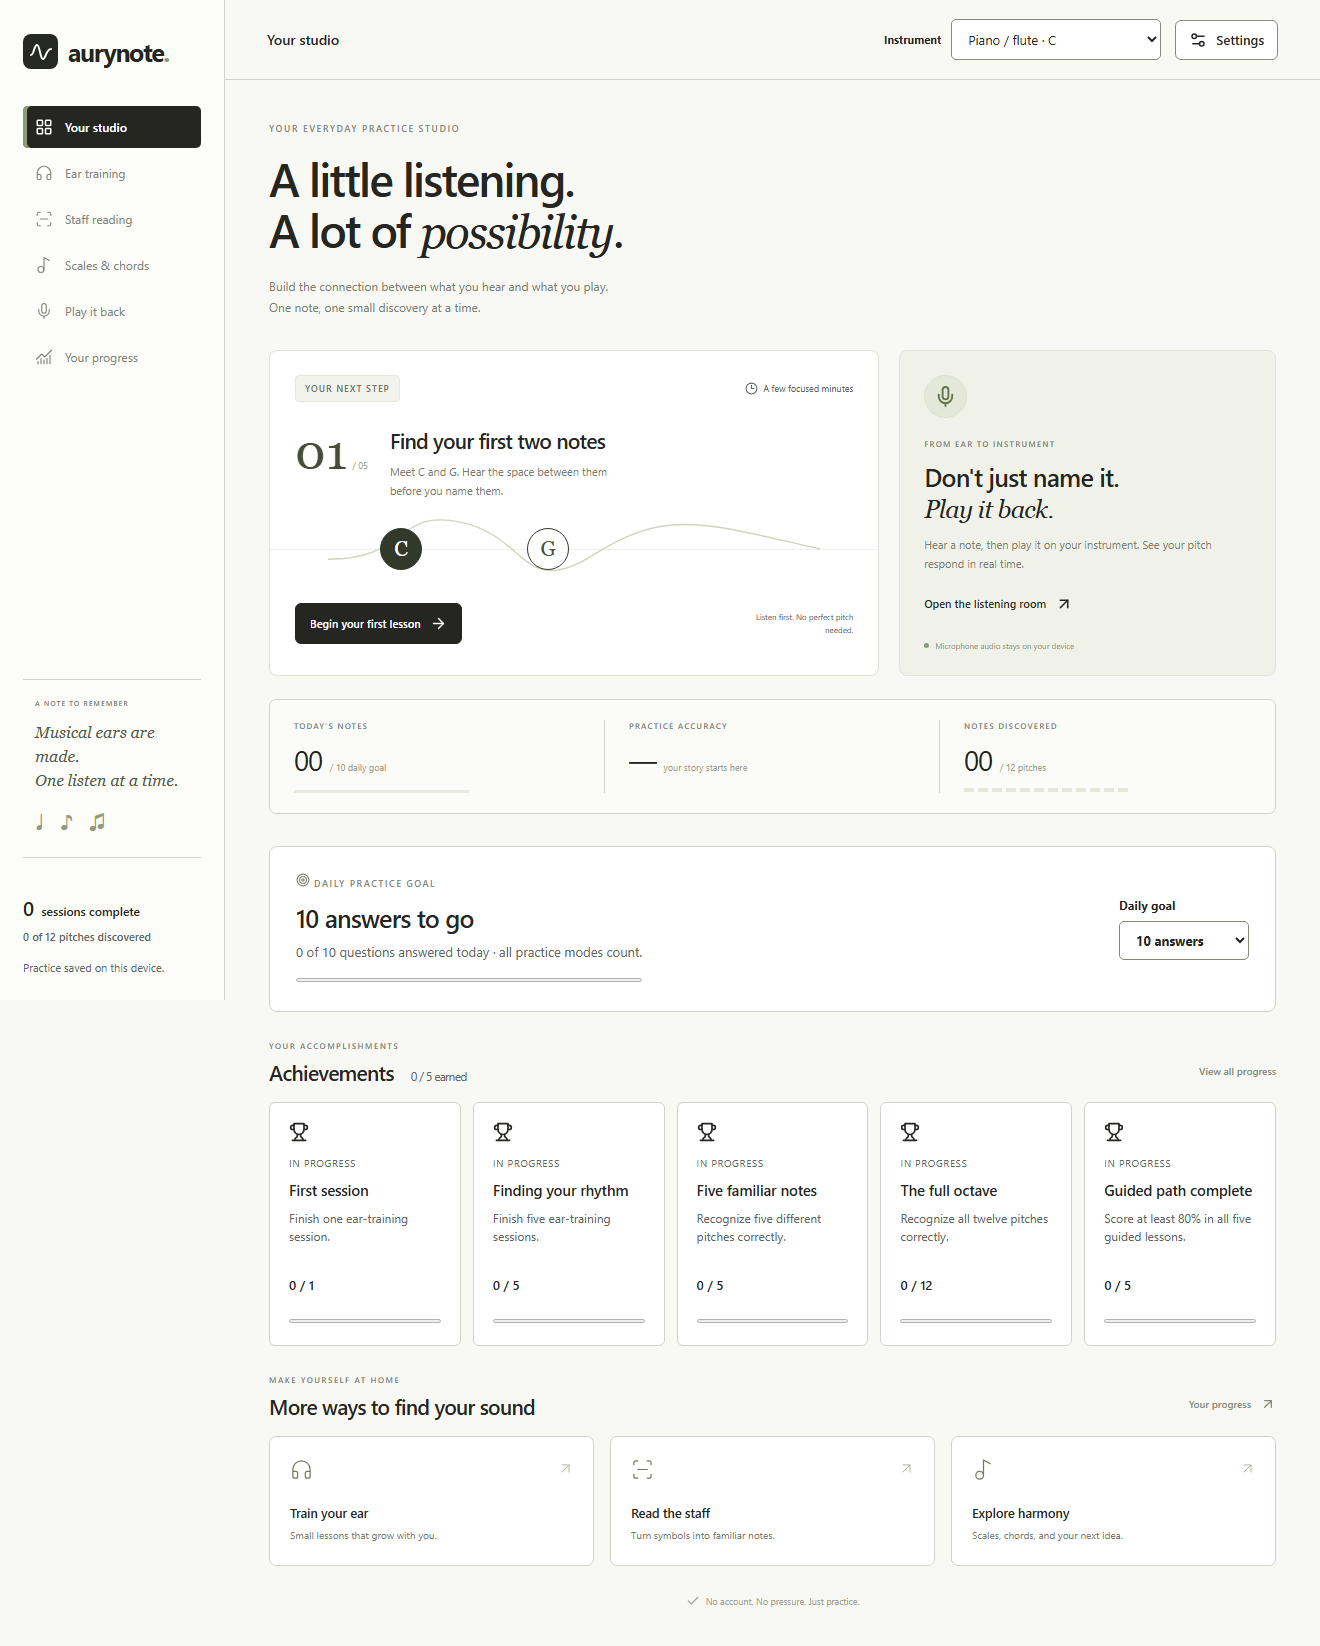
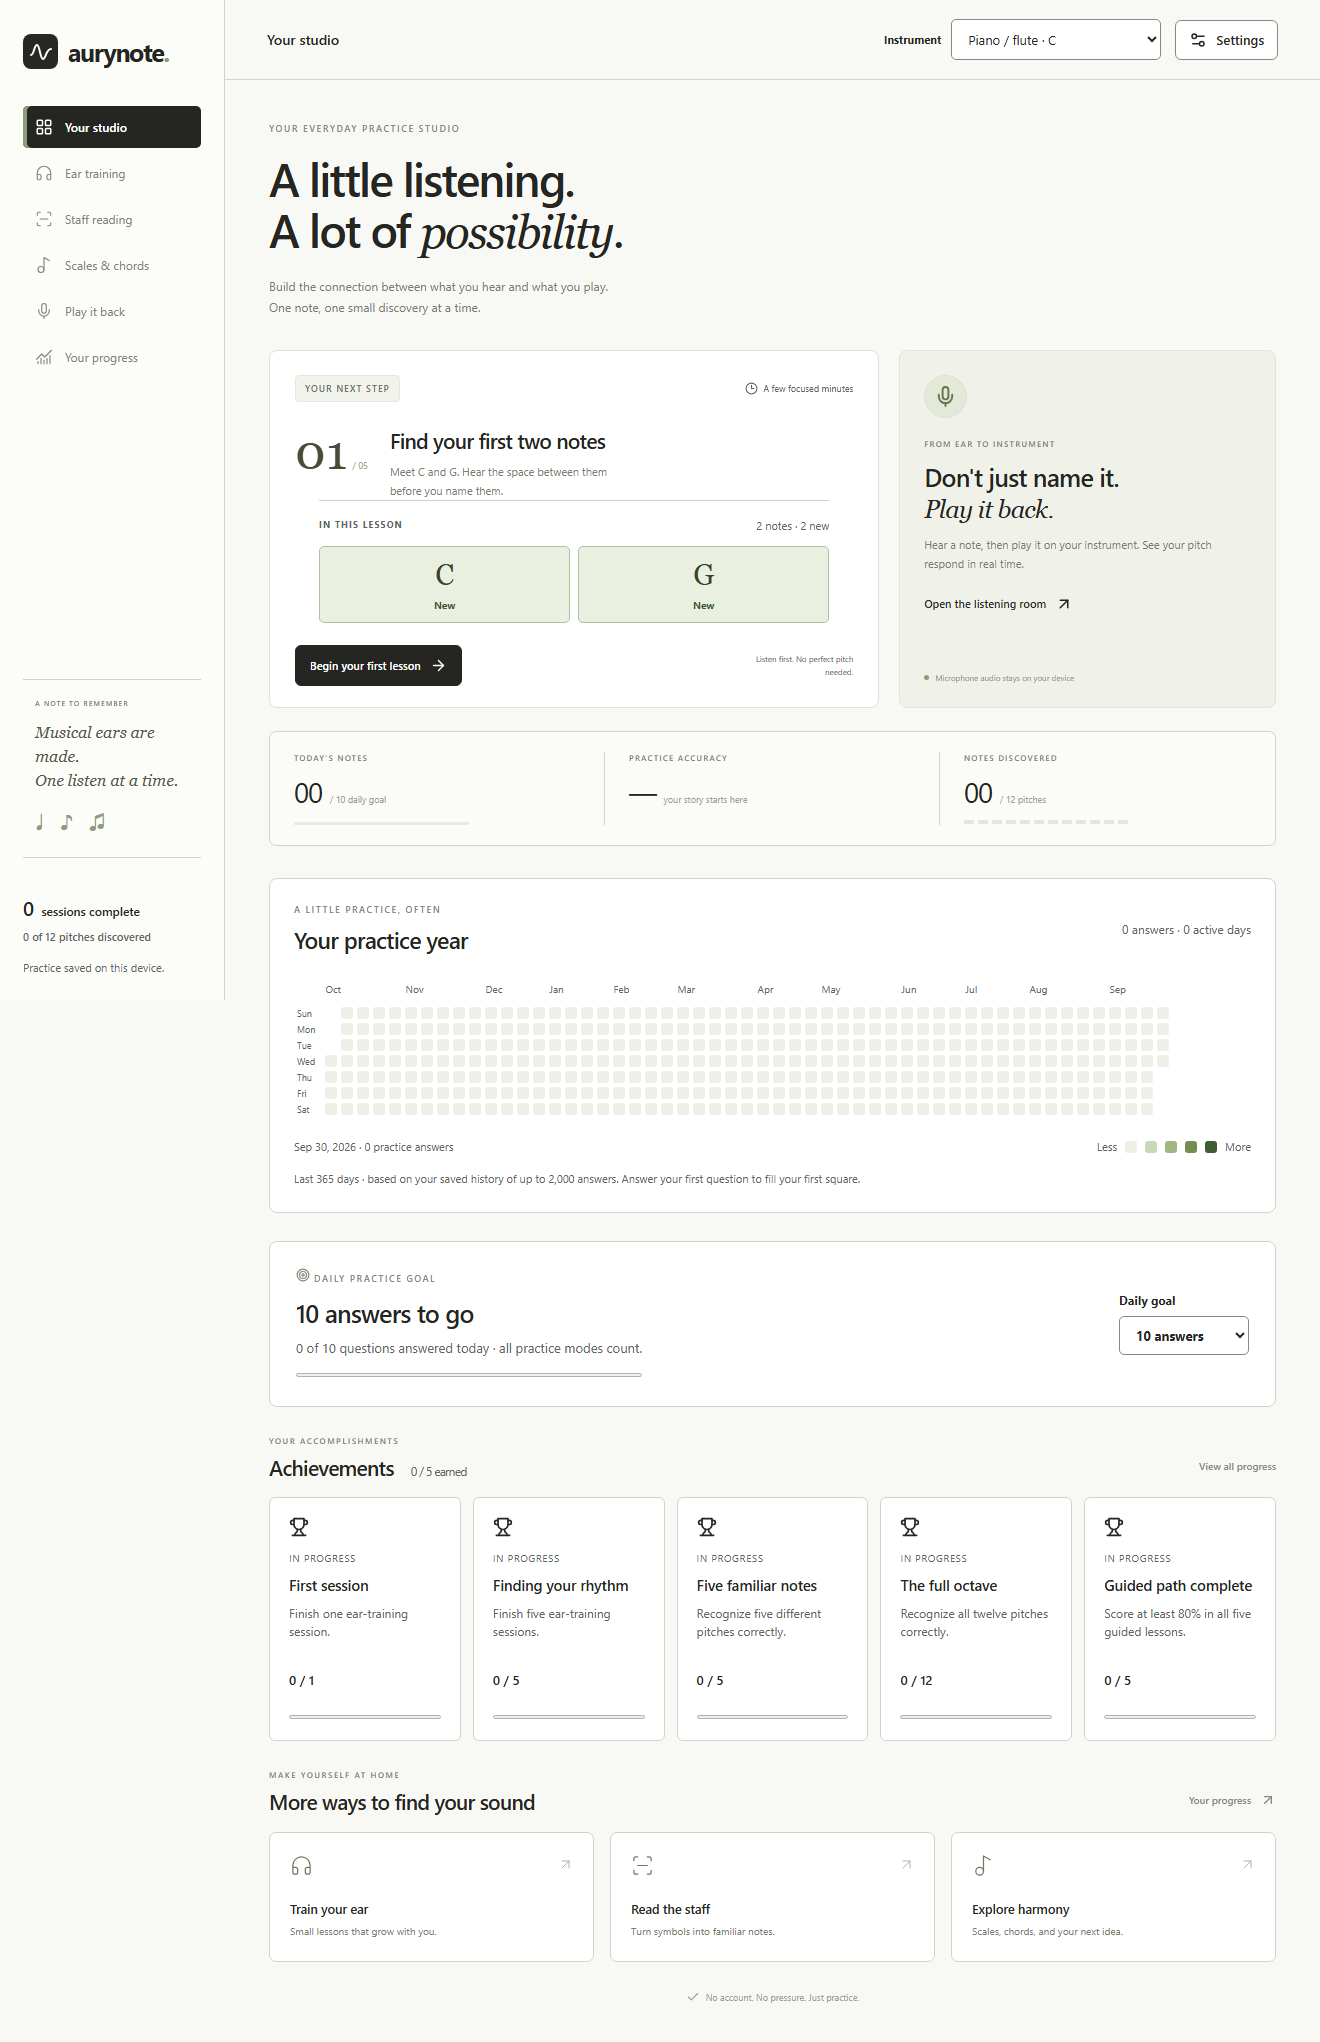
Document calendar setup

diff --git a/docs/DESIGN.md b/docs/DESIGN.md
@@ -1,6 +1,6 @@
 # aurynote design document
 
-Living reference for the desktop app on `hackathon-overhaul`. Current baseline: version 0.3.1. Last reviewed: September 30, 2026. The product name remains **aurynote**.
+Living reference for the desktop app on `hackathon-overhaul`. Current baseline: version 0.4.0. Last reviewed: September 30, 2026. The product name remains **aurynote**.
 
 This document describes implemented behavior, its visual design, and where it is built. Update the relevant sections whenever a feature or interaction changes. Ideas are not implemented features until explicitly marked as shipped here.
 
@@ -71,6 +71,16 @@ Settings is a compact native modal dialog with two labeled sections. Playback co
 Opening Settings stops current playback, pauses question advancement, and stops microphone input. Closing it restores keyboard focus to the invoking button. Escape, Close, Done, or a backdrop click dismiss the dialog; native modal behavior keeps Tab focus inside. Microphone input requires a new Start action afterward. Key or notation changes begin a fresh practice screen while preserving recorded progress.
 
 The shared success popup is centered near the top of the viewport, green with a check and “Correct!” text. It does not take focus or capture clicks. A short entry/exit animation lasts 850 milliseconds; reduced-motion mode displays it without animation. Its status role announces success. Ear training and staff reading share it; microphone matching retains its steady-match state and manual next-note control.
+
+## Practice activity calendar
+
+[PracticeActivity.tsx](../desktop/src/PracticeActivity.tsx) adds a year of activity below the studio statistics and on Your Progress. Each saved ear, staff, or microphone answer contributes to its local calendar day. The header reports the answer total and active-day count for the last 365 days. An empty state invites the first answer; no demo activity is mixed into the profile.
+
+The shared [GitHubCalendar](../desktop/src/components/ui/git-hub-calendar.tsx) accepts date-string/count entries and an optional color scale. Its default colors match GitHub; the app passes an olive palette. Optional today and activityLabel props support deterministic previews and practice-specific wording. It derives state from props instead of copying strings into Date-typed state. Duplicate days are summed; malformed, negative, future, and out-of-window data is excluded. Calendar dates are parsed locally to avoid UTC shifting. Real week boundaries determine month-label positions. Padding outside the rolling year is blank and noninteractive.
+
+Each square has a dated accessible name and tooltip. A single tab stop enters the grid; arrows move by day or week, Home/End jump to the range endpoints, and the selected day's count appears below. The legend represents 0, 1, 2, 3, and 4+ answers. Small windows scroll within the calendar without widening the page. The live wrapper refreshes the date each minute while mounted. Data comes from the retained 2,000-answer history, and that limit is stated beside the chart; this is not GitHub account activity or unlimited historical tracking.
+
+UI infrastructure now includes Tailwind v4 through the Vite plugin, TypeScript/Vite aliases, components.json, and cn(). Reusable UI components live in desktop/src/components/ui, imported through @/components/ui. The existing flat components.tsx remains for existing app primitives. Tailwind theme/utilities are loaded separately from style.css; Preflight is intentionally omitted to preserve existing styles. See [UI setup](UI_SETUP.md) for paths and CLI instructions. No image assets or new context provider are needed.
 
 ## Your studio
 
@@ -210,3 +220,4 @@ Use short, plain messages such as `Improve sax sounds` or `Label playback steps`
 | 0.2.0 | Added instrument-key families, independent sound/volume settings, fast correct popups, and a simpler screen shell. |
 | 0.3.0 | Fixed session progression, added custom note pools and question counts, expanded to six sounds, restored sidebar character, and clarified daily goals and earned achievements. |
 | 0.3.1 | Replaced the static C–G illustration with a lesson-aware note preview and clearly marked new pitches. |
+| 0.4.0 | Added a real-data practice calendar, reusable shadcn-style UI directory, Tailwind utilities, and setup documentation. |

diff --git a/docs/UI_SETUP.md b/docs/UI_SETUP.md
@@ -1,0 +1,60 @@
+# UI setup
+
+The desktop app already uses React and TypeScript. Tailwind v4 and the shadcn directory conventions are now configured; no new project is needed.
+
+## Paths
+
+- App root: `desktop/`
+- Reusable UI: `desktop/src/components/ui/`
+- Calendar: `desktop/src/components/ui/git-hub-calendar.tsx`
+- Example: `desktop/src/components/demos/demo.tsx`
+- App integration: `desktop/src/PracticeActivity.tsx`
+- Existing app styles: `desktop/src/style.css`
+- Tailwind theme and utilities: `desktop/src/tailwind.css`
+- Shared class helper: `desktop/src/lib/utils.ts`
+- shadcn configuration: `desktop/components.json`
+
+The `@` alias points to `desktop/src` in both TypeScript and Vite. Thus `@/components/ui` is this app's equivalent of `/components/ui`; a second repository-root components directory would sit outside the app's source tree. Keeping reusable UI here makes imports predictable and gives the shadcn CLI a consistent installation target. Existing primitives in `src/components.tsx` are retained.
+
+## Install and run
+
+Use Node 22.12 or newer:
+
+```sh
+cd desktop
+npm ci
+npm start
+```
+
+Installed dependencies include date-fns, clsx, tailwind-merge, class-variance-authority, tailwindcss, and @tailwindcss/vite. Lucide was already installed. No providers or external images are required for this calendar.
+
+The existing project was configured manually to preserve its stylesheet. When adding another shadcn component, run from `desktop`:
+
+```sh
+npx shadcn@latest add button
+```
+
+For a separate, unconfigured Vite React/TypeScript project, install Tailwind and its Vite plugin, register `tailwindcss()` beside `react()` in vite.config.ts, configure the `@/*` path alias in TypeScript and Vite, and run:
+
+```sh
+npm install tailwindcss @tailwindcss/vite
+npx shadcn@latest init
+```
+
+Do not reinitialize this configured app as part of routine component additions. Its Tailwind entry imports theme and utilities without Preflight so existing controls retain their styles. New components should set any required reset-like styles locally and use the configured theme tokens.
+
+References: [Tailwind with Vite](https://tailwindcss.com/docs/installation/using-vite), [Preflight configuration](https://tailwindcss.com/docs/preflight), [shadcn components.json](https://ui.shadcn.com/docs/components-json).
+
+## Calendar contract
+
+```tsx
+import { GitHubCalendar } from '@/components/ui/git-hub-calendar';
+
+<GitHubCalendar
+  data={[{ date: '2026-09-30', count: 3 }]}
+  colors={['#edf0e7', '#cbd8b7', '#a1b782', '#738f50', '#405c31']}
+  activityLabel="practice answers"
+/>
+```
+
+Dates remain `YYYY-MM-DD` strings. Optional `today` fixes the displayed range for demos/tests. The supplied component's string/Date type mismatch, approximate month arithmetic, repeated linear searches, and timezone-shifting date parsing were corrected. The demo uses a fixed date and sample data; the app uses only saved practice answers. Activity is based on the latest 2,000 retained answers, not a GitHub connection.
